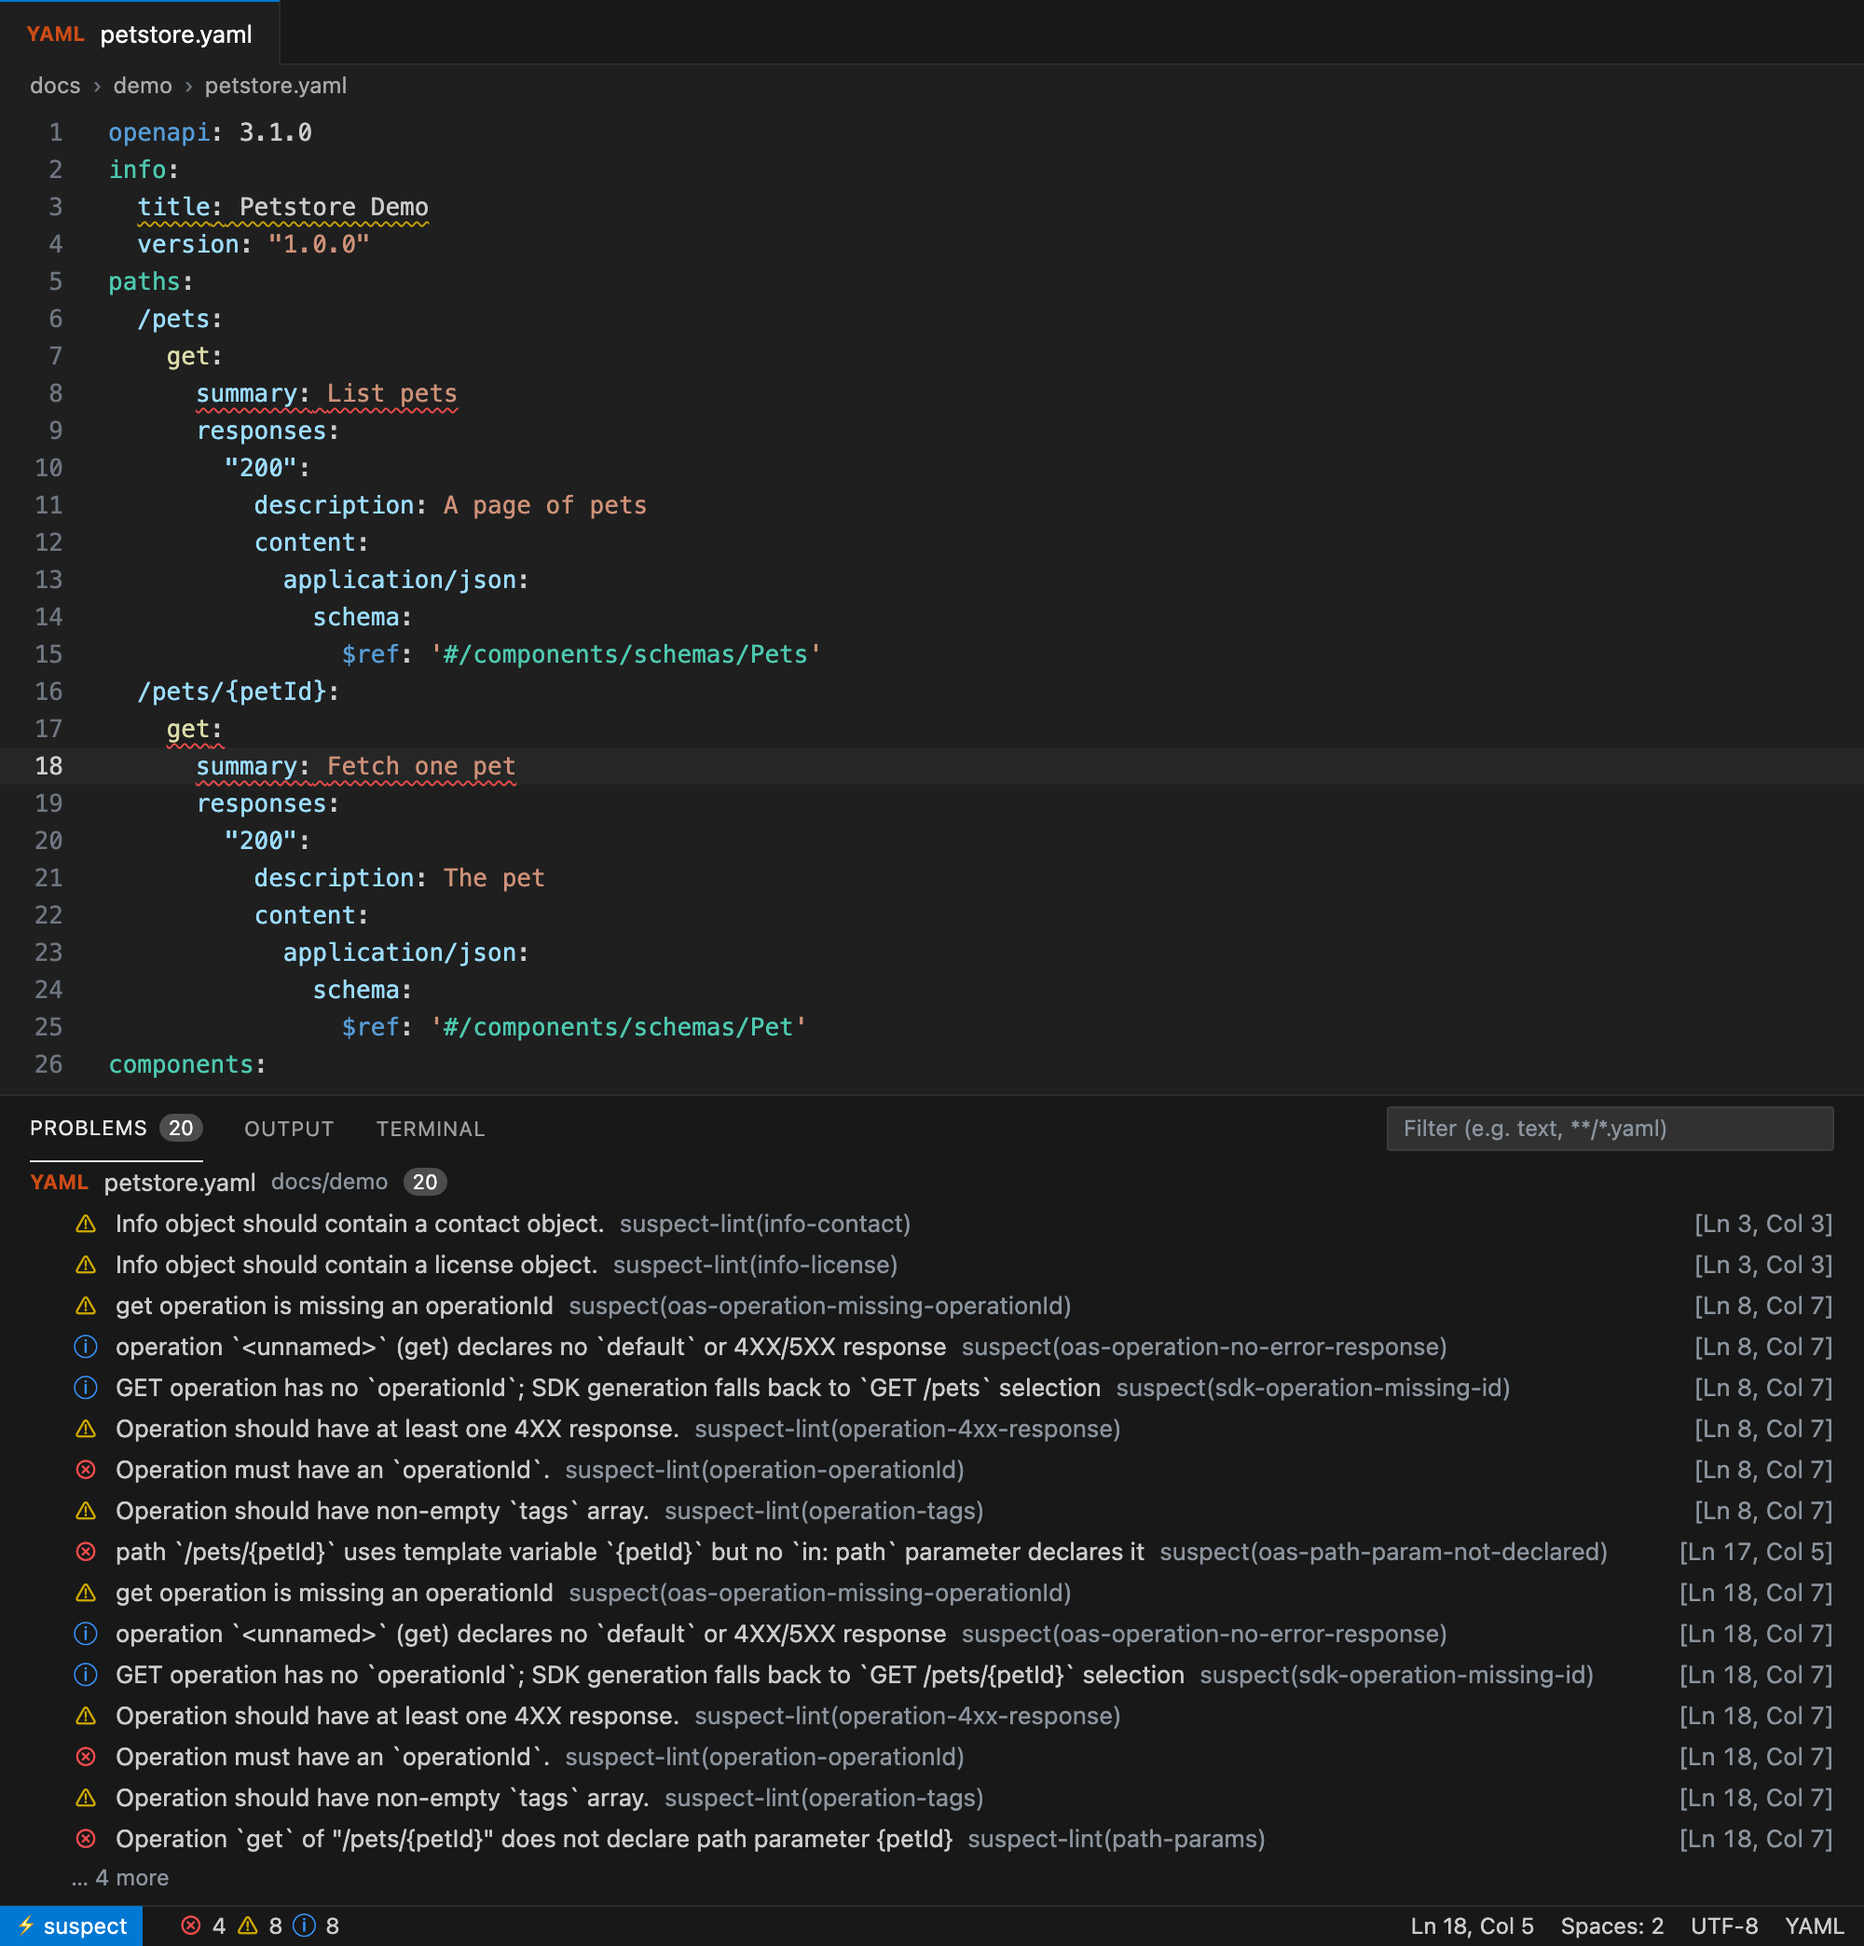
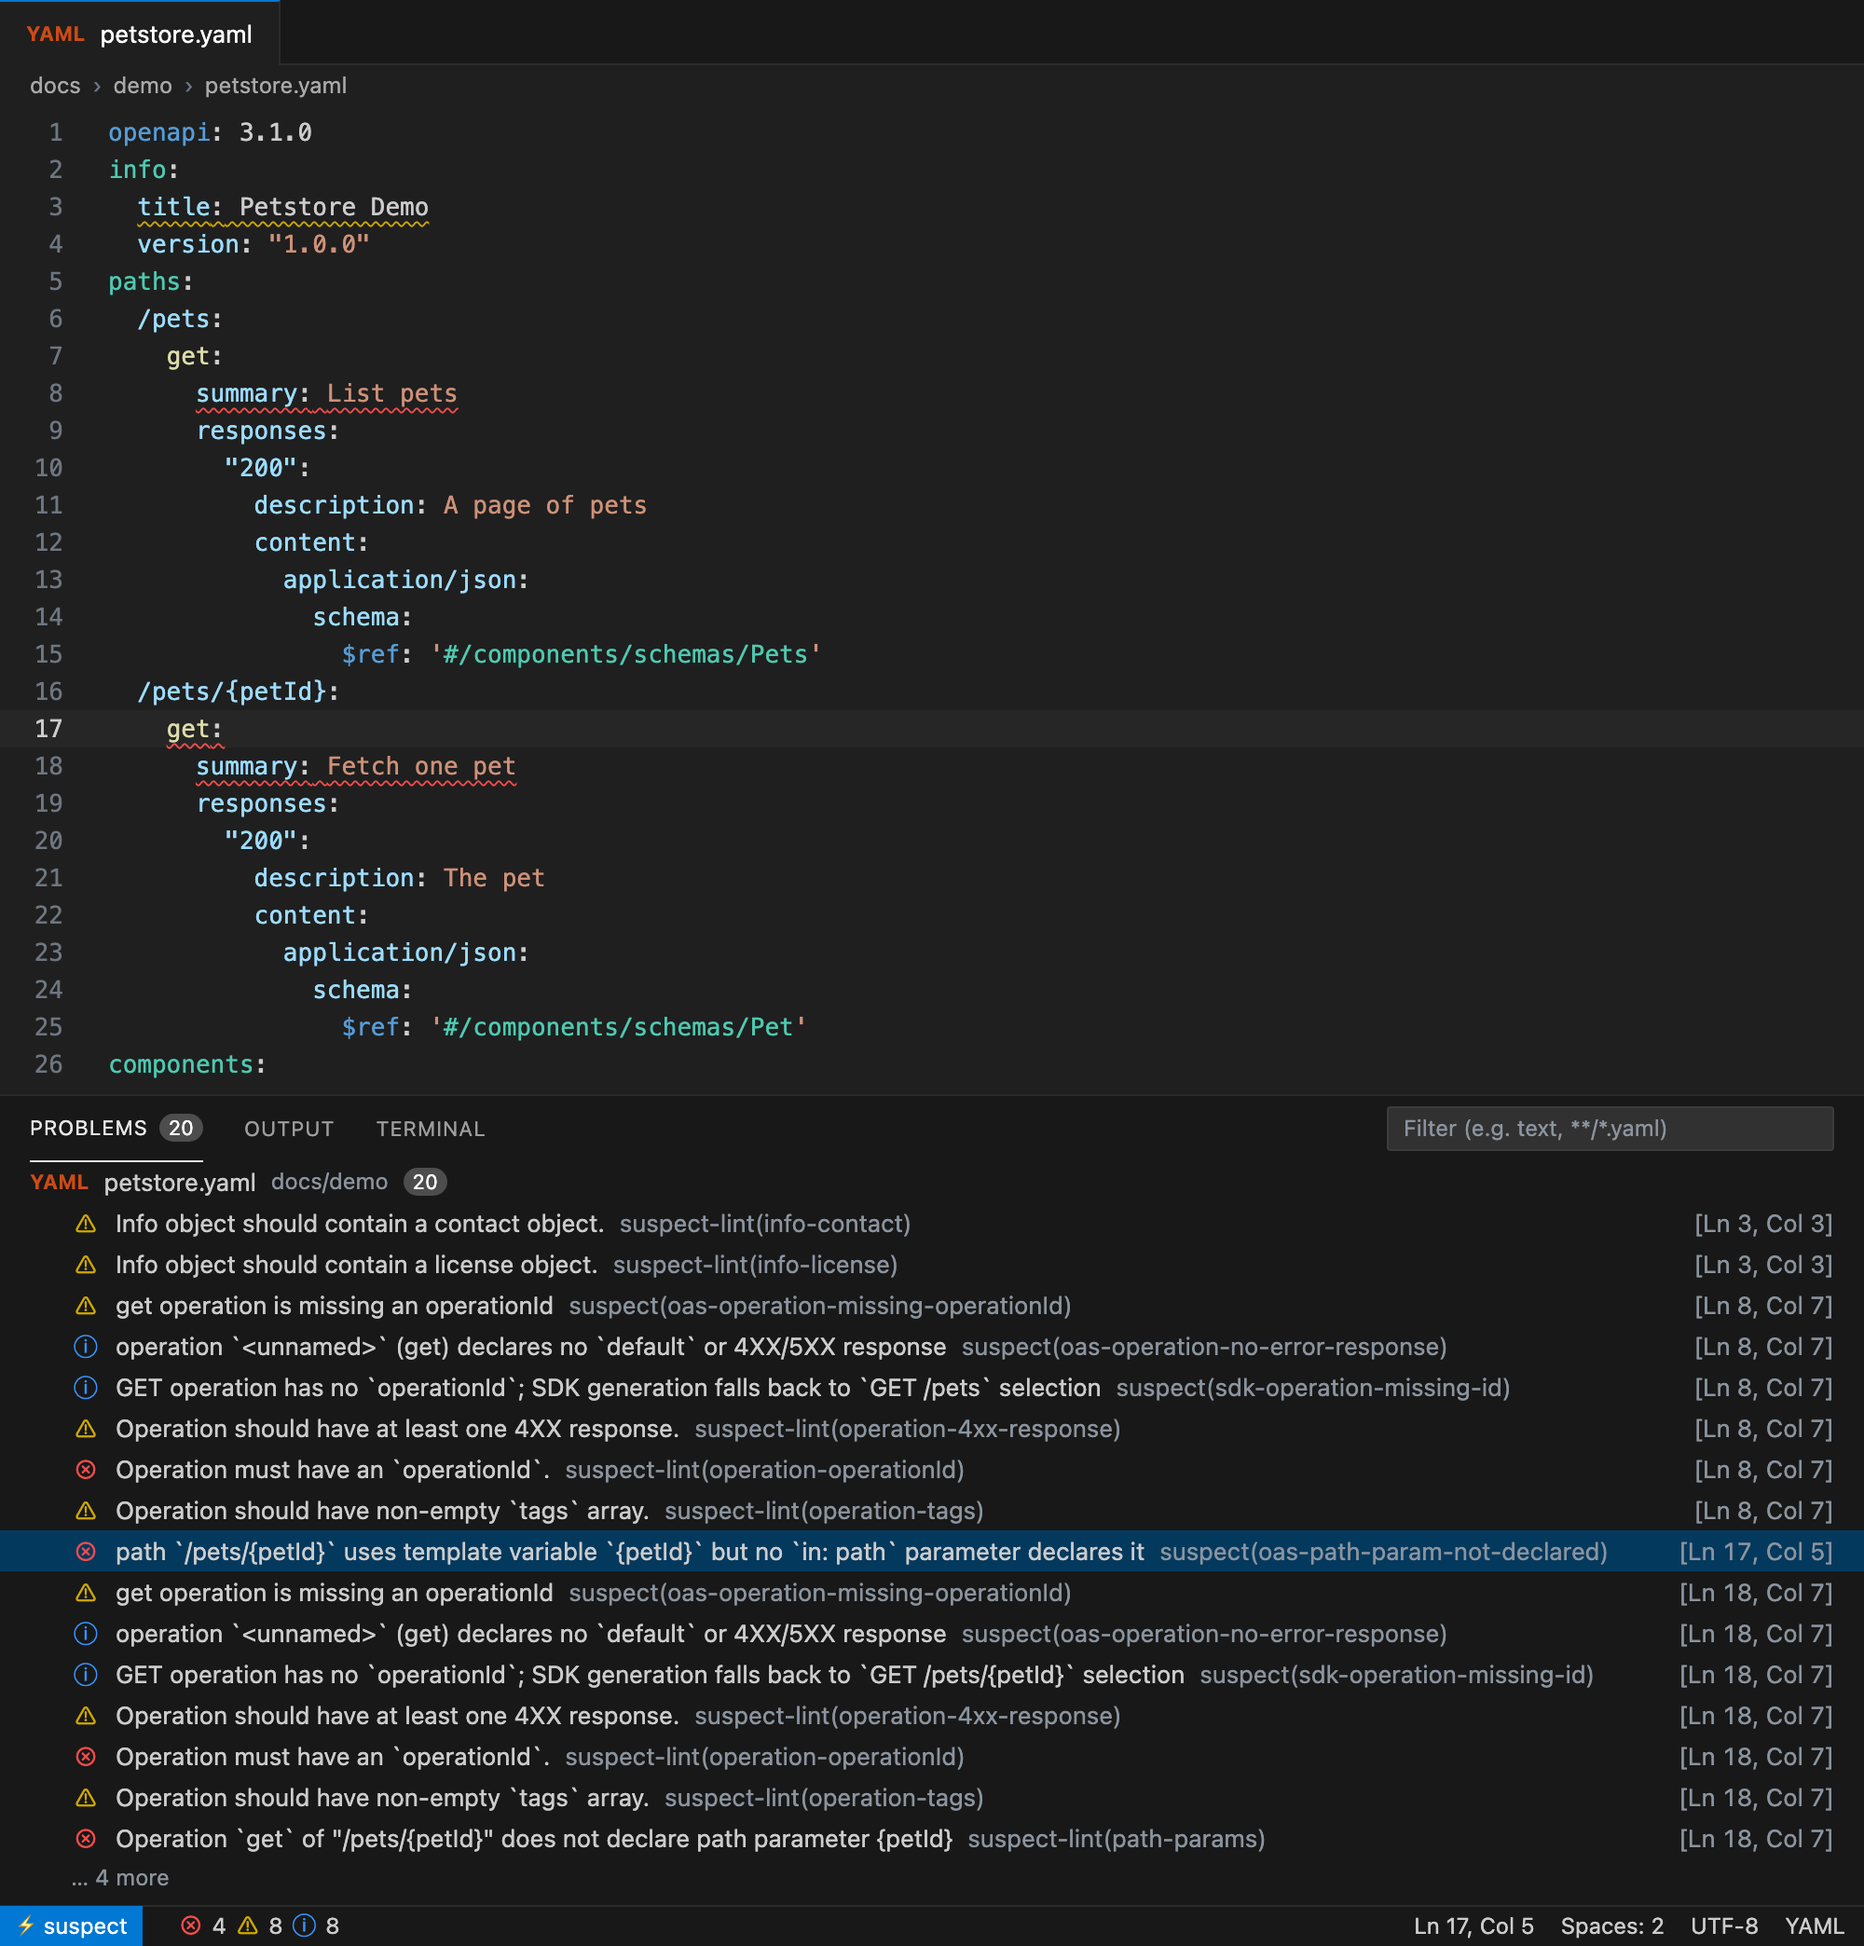
docs(capture): review follow-ups for the screenshot renderer
- hover titles: `###` headings get the heading style (they rendered as h4
  with no rule)
- the Problems panel highlights the row the cursor is on; the cursor now
  sits on the undeclared path parameter
- LSP columns are UTF-16 code units; convert to code points before
  indexing lines
- build the page URL with `Path.as_uri()` so paths with `#`, `?` or spaces
  still load
- remove the temporary HTML directory in a `finally`
- `--only` requires at least one page name
- the showcase example applies the rename edits and checks the `$ref`
  values stay quoted strings

Changed region(s): [[0.0, 0.7783, 1.0, 0.8094]]

diff --git a/docs/capture/render.py b/docs/capture/render.py
@@ -22,6 +22,7 @@ import argparse
 import html
 import json
 import os
+import pathlib
 import re
 import shutil
 import subprocess
@@ -92,10 +93,10 @@ body { width: %(width)dpx; }
 
 .widget { position: absolute; background: #202020; border: 1px solid #454545; box-shadow: 0 2px 8px rgba(0,0,0,0.5); z-index: 5; }
 .hover { padding: 8px 12px; max-width: 560px; font-size: 13px; line-height: 1.45; color: #cccccc; }
-.hover h3 { font-size: 14px; font-weight: 600; margin-bottom: 6px; color: #ffffff; }
+.hover h3, .hover h4 { font-size: 14px; font-weight: 600; margin-bottom: 6px; color: #ffffff; }
 .hover p { margin: 4px 0; }
 .hover code { font-family: ui-monospace, "SF Mono", Menlo, monospace; font-size: 12px; background: rgba(255,255,255,0.08); padding: 1px 4px; border-radius: 3px; color: #d7ba7d; }
-.hover h3 code { color: #4ec9b0; background: none; font-size: 14px; padding: 0; }
+.hover h3 code, .hover h4 code { color: #4ec9b0; background: none; font-size: 14px; padding: 0; }
 .hover em { color: #a9a9a9; }
 .hover hr { border: 0; border-top: 1px solid #454545; margin: 8px 0; }
 .hover table { border-collapse: collapse; margin: 6px 0 2px; font-size: 12.5px; }
@@ -212,6 +213,38 @@ STR_RE = re.compile(r"'[^']*'|\"[^\"]*\"")
 NUM_RE = re.compile(r"(?<![\w.])-?\d+(?:\.\d+)?(?![\w.])")
 
 
+def utf16_to_index(line: str, col: int) -> int:
+    """LSP columns count UTF-16 code units; the renderer indexes Python
+    strings by code point. Maps one to the other on `line`."""
+    units = 0
+    for i, ch in enumerate(line):
+        if units >= col:
+            return i
+        units += 2 if ord(ch) > 0xFFFF else 1
+    return len(line)
+
+
+def to_code_points(data: dict, lines: list[str]) -> None:
+    """Rewrites every LSP position in `data` (objects with `line` and
+    `character`, plus semantic-token `length`s) from UTF-16 code units to
+    code-point columns, in place."""
+    def visit(node):
+        if isinstance(node, dict):
+            if "line" in node and "character" in node and isinstance(node["line"], int):
+                text = lines[node["line"]] if node["line"] < len(lines) else ""
+                start = utf16_to_index(text, node["character"])
+                if "length" in node:
+                    node["length"] = utf16_to_index(text, node["character"] + node["length"]) - start
+                node["character"] = start
+            for v in node.values():
+                visit(v)
+        elif isinstance(node, list):
+            for v in node:
+                visit(v)
+
+    visit(data)
+
+
 class Doc:
     """The spec text plus everything that decorates it."""
 
@@ -220,6 +253,7 @@ class Doc:
         self.lines = self.text.split("\n")
         if self.lines and self.lines[-1] == "":
             self.lines.pop()
+        to_code_points(data, self.lines)
         self.tokens = data["semantic_tokens"]
         self.base = [self._base_styles(line) for line in self.lines]
         for t in self.tokens:
@@ -413,7 +447,10 @@ def sev_decorations(diags: list[dict], doc: Doc) -> dict[int, list[tuple[int, in
 def page_diagnostics(data: dict, doc: Doc) -> str:
     diags = data["diagnostics"]
     first, last = 0, 25
-    current = 17
+    # The cursor sits on the undeclared path parameter, the one semantic
+    # error in the file; its Problems row is the selected one.
+    selected = next((d for d in diags if d["code"] == "oas-path-param-not-declared"), diags[0])
+    current = selected["range"]["start"]["line"]
     body = tabs_html(data["file"])
     body += editor_html(doc, first, last, current=current, decorations=sev_decorations(diags, doc))
     rows = []
@@ -422,7 +459,7 @@ def page_diagnostics(data: dict, doc: Doc) -> str:
         if d["source"] == "suspect-lint" and d["severity"] == "info":
             continue  # keep the panel to one screen: the lint infos are repetitive
         s = d["range"]["start"]
-        active = " active" if s["line"] == current and d["code"] == "oas-path-param-not-declared" else ""
+        active = " active" if d is selected else ""
         rows.append(
             f'<div class="row{active}"><span class="ico-{d["severity"]}">{SEV_ICON[d["severity"]]}</span>'
             f'<span class="msg">{esc(d["message"])}</span>'
@@ -440,7 +477,7 @@ def page_diagnostics(data: dict, doc: Doc) -> str:
         + (f'<div class="more">… {len(diags) - shown} more</div>' if shown < len(diags) else "")
         + "</div></div>"
     )
-    body += status_html(diags, current, 4)
+    body += status_html(diags, current, selected["range"]["start"]["character"])
     return page(body)
 
 
@@ -690,7 +727,7 @@ def capture(chrome: str, html_path: str, png_path: str, scale: int = 2) -> None:
             chrome, "--headless=new", "--disable-gpu", "--hide-scrollbars", "--no-first-run",
             "--disable-extensions", "--font-render-hinting=none",
             f"--force-device-scale-factor={scale}", f"--window-size={WIDTH},{tall}",
-            f"--screenshot={png_path}", "file://" + os.path.abspath(html_path),
+            f"--screenshot={png_path}", pathlib.Path(html_path).absolute().as_uri(),
         ],
         check=True, stdout=subprocess.DEVNULL, stderr=subprocess.DEVNULL, timeout=120,
     )
@@ -712,7 +749,7 @@ def capture(chrome: str, html_path: str, png_path: str, scale: int = 2) -> None:
 def main() -> None:
     ap = argparse.ArgumentParser(description=__doc__.split("\n\n")[0])
     ap.add_argument("--out", default=DEFAULT_OUT, help="directory for lsp-*.png")
-    ap.add_argument("--only", nargs="*", choices=sorted(PAGES), help="render a subset")
+    ap.add_argument("--only", nargs="+", choices=sorted(PAGES), help="render a subset")
     ap.add_argument("--keep-html", action="store_true", help="leave the HTML next to the PNGs")
     args = ap.parse_args()
 
@@ -722,17 +759,19 @@ def main() -> None:
     chrome = find_chrome()
     os.makedirs(args.out, exist_ok=True)
     work = args.out if args.keep_html else tempfile.mkdtemp(prefix="suspect-showcase-")
-    for name, build in PAGES.items():
-        if args.only and name not in args.only:
-            continue
-        html_path = os.path.join(work, f"lsp-{name}.html")
-        png_path = os.path.join(args.out, f"lsp-{name}.png")
-        with open(html_path, "w", encoding="utf-8") as f:
-            f.write(build(data, doc))
-        capture(chrome, html_path, png_path)
-        print(f"wrote {os.path.relpath(png_path)}")
-    if not args.keep_html:
-        shutil.rmtree(work, ignore_errors=True)
+    try:
+        for name, build in PAGES.items():
+            if args.only and name not in args.only:
+                continue
+            html_path = os.path.join(work, f"lsp-{name}.html")
+            png_path = os.path.join(args.out, f"lsp-{name}.png")
+            with open(html_path, "w", encoding="utf-8") as f:
+                f.write(build(data, doc))
+            capture(chrome, html_path, png_path)
+            print(f"wrote {os.path.relpath(png_path)}")
+    finally:
+        if not args.keep_html:
+            shutil.rmtree(work, ignore_errors=True)
 
 
 if __name__ == "__main__":

diff --git a/crates/suspect-lsp/examples/showcase.rs b/crates/suspect-lsp/examples/showcase.rs
@@ -10,7 +10,7 @@
 use std::sync::Arc;
 
 use serde_json::{Value, json};
-use suspect_lsp::state::{OpenDoc, lsp_range};
+use suspect_lsp::state::{OpenDoc, lsp_range, offset_of_utf16};
 use suspect_lsp::{
     actions, completion, diagnostics, navigation, rename, semantic, workspace_symbol,
 };
@@ -293,6 +293,40 @@ fn main() {
             e["range"]["start"]["character"].as_u64(),
         )
     });
+    // Applying the edits must leave a spec that still parses the way the
+    // author wrote it: the `$ref` values stay quoted strings, and the
+    // declaration takes the new name.
+    let mut applied = SPEC.to_owned();
+    for e in edits.iter().rev() {
+        let (s, t) = (&e["range"]["start"], &e["range"]["end"]);
+        let start = offset_of_utf16(
+            bytes,
+            li,
+            s["line"].as_u64().unwrap() as u32,
+            s["character"].as_u64().unwrap() as u32,
+        )
+        .unwrap();
+        let end = offset_of_utf16(
+            bytes,
+            li,
+            t["line"].as_u64().unwrap() as u32,
+            t["character"].as_u64().unwrap() as u32,
+        )
+        .unwrap();
+        applied.replace_range(start..end, e["new_text"].as_str().unwrap());
+    }
+    assert!(applied.contains("\n    Animal:\n"), "{applied}");
+    assert_eq!(
+        applied
+            .matches("$ref: '#/components/schemas/Animal'")
+            .count(),
+        2,
+        "both local refs are rewritten and keep their quotes:\n{applied}"
+    );
+    assert!(
+        !applied.contains("$ref: #/"),
+        "an unquoted $ref is a YAML comment:\n{applied}"
+    );
     out.insert(
         "rename".into(),
         json!({
